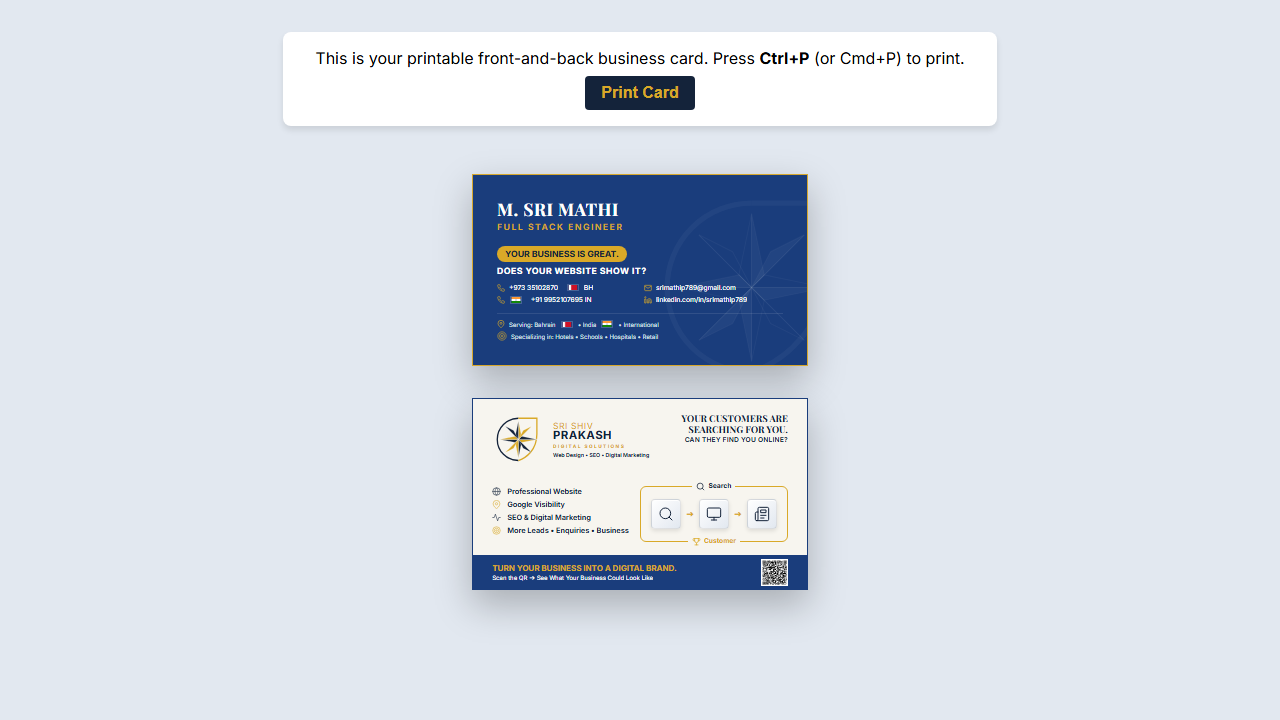
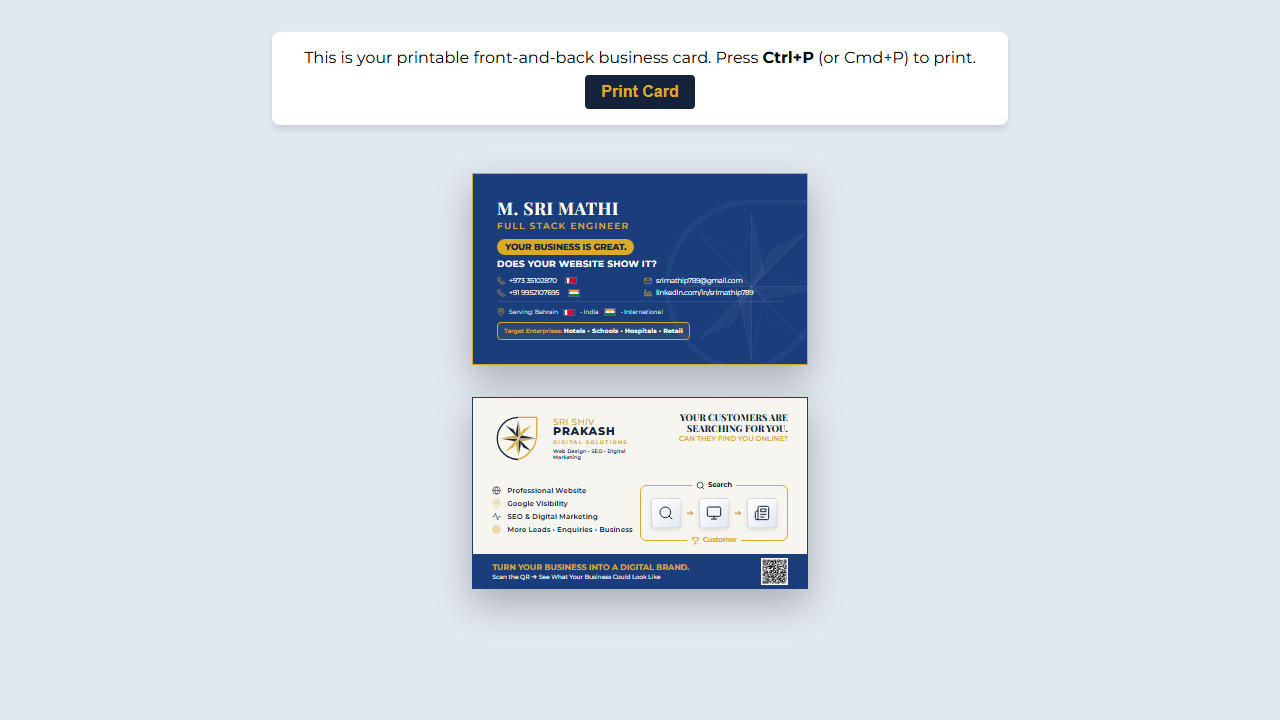
Final polish: Fonts, target clients box, and flag order

diff --git a/index.html b/index.html
@@ -3,8 +3,10 @@
 <head>
     <meta charset="UTF-8">
     <meta name="viewport" content="width=device-width, initial-scale=1.0">
-    <title>M. Sri Mathi - Visiting Card</title>
-    <link href="https://fonts.googleapis.com/css2?family=Inter:wght@300;400;600;700&family=Playfair+Display:wght@600;700&display=swap" rel="stylesheet">
+    <title>Sri Mathi - Modern Visiting Card</title>
+    <link rel="preconnect" href="https://fonts.googleapis.com">
+    <link rel="preconnect" href="https://fonts.gstatic.com" crossorigin>
+    <link href="https://fonts.googleapis.com/css2?family=Montserrat:wght@400;500;600;700;800&family=Playfair+Display:wght@700;800&display=swap" rel="stylesheet">
     <link rel="stylesheet" href="styles.css">
 </head>
 <body>
@@ -49,16 +51,18 @@
                 <p class="slogan">DOES YOUR WEBSITE SHOW IT?</p>
                 
                 <div class="contact-grid">
-                    <div class="contact-item"><svg class="c-icon" viewBox="0 0 24 24" width="8" height="8" stroke="var(--gold)" stroke-width="2" stroke-linecap="round" stroke-linejoin="round" fill="none"><path d="M22 16.92v3a2 2 0 0 1-2.18 2 19.79 19.79 0 0 1-8.63-3.07 19.5 19.5 0 0 1-6-6 19.79 19.79 0 0 1-3.07-8.67A2 2 0 0 1 4.11 2h3a2 2 0 0 1 2 1.72 12.84 12.84 0 0 0 .7 2.81 2 2 0 0 1-.45 2.11L8.09 9.91a16 16 0 0 0 6 6l1.27-1.27a2 2 0 0 1 2.11-.45 12.84 12.84 0 0 0 2.81.7A2 2 0 0 1 22 16.92z"></path></svg> +973 35102870 &nbsp;<svg class="flag-icon" viewBox="0 0 5 3" width="12" height="7"><rect width="5" height="3" fill="#CE1126"/><polygon points="0,0 1.25,0 1.25,3 0,3" fill="#FFFFFF"/><polygon points="1.25,0 1.6,0.3 1.25,0.6 1.6,0.9 1.25,1.2 1.6,1.5 1.25,1.8 1.6,2.1 1.25,2.4 1.6,2.7 1.25,3 1.25,0" fill="#FFFFFF"/></svg> BH</div>
+                    <div class="contact-item"><svg class="c-icon" viewBox="0 0 24 24" width="8" height="8" stroke="var(--gold)" stroke-width="2" stroke-linecap="round" stroke-linejoin="round" fill="none"><path d="M22 16.92v3a2 2 0 0 1-2.18 2 19.79 19.79 0 0 1-8.63-3.07 19.5 19.5 0 0 1-6-6 19.79 19.79 0 0 1-3.07-8.67A2 2 0 0 1 4.11 2h3a2 2 0 0 1 2 1.72 12.84 12.84 0 0 0 .7 2.81 2 2 0 0 1-.45 2.11L8.09 9.91a16 16 0 0 0 6 6l1.27-1.27a2 2 0 0 1 2.11-.45 12.84 12.84 0 0 0 2.81.7A2 2 0 0 1 22 16.92z"></path></svg> +973 35102870 &nbsp;<svg class="flag-icon" viewBox="0 0 5 3" width="12" height="7"><rect width="5" height="3" fill="#CE1126"/><polygon points="0,0 1.25,0 1.25,3 0,3" fill="#FFFFFF"/><polygon points="1.25,0 1.6,0.3 1.25,0.6 1.6,0.9 1.25,1.2 1.6,1.5 1.25,1.8 1.6,2.1 1.25,2.4 1.6,2.7 1.25,3 1.25,0" fill="#FFFFFF"/></svg></div>
                     <div class="contact-item"><svg class="c-icon" viewBox="0 0 24 24" width="8" height="8" stroke="var(--gold)" stroke-width="2" stroke-linecap="round" stroke-linejoin="round" fill="none"><path d="M4 4h16c1.1 0 2 .9 2 2v12c0 1.1-.9 2-2 2H4c-1.1 0-2-.9-2-2V6c0-1.1.9-2 2-2z"></path><polyline points="22,6 12,13 2,6"></polyline></svg> srimathip789@gmail.com</div>
-                    <div class="contact-item"><svg class="c-icon" viewBox="0 0 24 24" width="8" height="8" stroke="var(--gold)" stroke-width="2" stroke-linecap="round" stroke-linejoin="round" fill="none"><path d="M22 16.92v3a2 2 0 0 1-2.18 2 19.79 19.79 0 0 1-8.63-3.07 19.5 19.5 0 0 1-6-6 19.79 19.79 0 0 1-3.07-8.67A2 2 0 0 1 4.11 2h3a2 2 0 0 1 2 1.72 12.84 12.84 0 0 0 .7 2.81 2 2 0 0 1-.45 2.11L8.09 9.91a16 16 0 0 0 6 6l1.27-1.27a2 2 0 0 1 2.11-.45 12.84 12.84 0 0 0 2.81.7A2 2 0 0 1 22 16.92z"></path></svg> <svg class="flag-icon" viewBox="0 0 9 6" width="12" height="8"><rect width="9" height="2" fill="#FF9933"/><rect y="2" width="9" height="2" fill="#FFFFFF"/><rect y="4" width="9" height="2" fill="#138808"/><circle cx="4.5" cy="3" r="0.8" fill="none" stroke="#000080" stroke-width="0.1"/><circle cx="4.5" cy="3" r="0.3" fill="#000080"/></svg>&nbsp; +91 9952107695 IN</div>
+                    <div class="contact-item"><svg class="c-icon" viewBox="0 0 24 24" width="8" height="8" stroke="var(--gold)" stroke-width="2" stroke-linecap="round" stroke-linejoin="round" fill="none"><path d="M22 16.92v3a2 2 0 0 1-2.18 2 19.79 19.79 0 0 1-8.63-3.07 19.5 19.5 0 0 1-6-6 19.79 19.79 0 0 1-3.07-8.67A2 2 0 0 1 4.11 2h3a2 2 0 0 1 2 1.72 12.84 12.84 0 0 0 .7 2.81 2 2 0 0 1-.45 2.11L8.09 9.91a16 16 0 0 0 6 6l1.27-1.27a2 2 0 0 1 2.11-.45 12.84 12.84 0 0 0 2.81.7A2 2 0 0 1 22 16.92z"></path></svg> +91 9952107695 &nbsp;<svg class="flag-icon" viewBox="0 0 9 6" width="12" height="8"><rect width="9" height="2" fill="#FF9933"/><rect y="2" width="9" height="2" fill="#FFFFFF"/><rect y="4" width="9" height="2" fill="#138808"/><circle cx="4.5" cy="3" r="0.8" fill="none" stroke="#000080" stroke-width="0.1"/><circle cx="4.5" cy="3" r="0.3" fill="#000080"/></svg></div>
                     <div class="contact-item"><svg class="c-icon" viewBox="0 0 24 24" width="8" height="8" stroke="var(--gold)" stroke-width="2" stroke-linecap="round" stroke-linejoin="round" fill="none"><path d="M16 8a6 6 0 0 1 6 6v7h-4v-7a2 2 0 0 0-2-2 2 2 0 0 0-2 2v7h-4v-7a6 6 0 0 1 6-6z"></path><rect x="2" y="9" width="4" height="12"></rect><circle cx="4" cy="4" r="2"></circle></svg> linkedin.com/in/srimathip789</div>
                 </div>
             </div>
 
             <div class="front-bottom">
                 <div class="info-item"><svg class="c-icon" viewBox="0 0 24 24" width="8" height="8" stroke="var(--gold)" stroke-width="2" stroke-linecap="round" stroke-linejoin="round" fill="none"><path d="M21 10c0 7-9 13-9 13s-9-6-9-13a9 9 0 0 1 18 0z"></path><circle cx="12" cy="10" r="3"></circle></svg> Serving: Bahrain <svg class="flag-icon" viewBox="0 0 5 3" width="12" height="7"><rect width="5" height="3" fill="#CE1126"/><polygon points="0,0 1.25,0 1.25,3 0,3" fill="#FFFFFF"/><polygon points="1.25,0 1.6,0.3 1.25,0.6 1.6,0.9 1.25,1.2 1.6,1.5 1.25,1.8 1.6,2.1 1.25,2.4 1.6,2.7 1.25,3 1.25,0" fill="#FFFFFF"/></svg> • India <svg class="flag-icon" viewBox="0 0 9 6" width="12" height="8"><rect width="9" height="2" fill="#FF9933"/><rect y="2" width="9" height="2" fill="#FFFFFF"/><rect y="4" width="9" height="2" fill="#138808"/><circle cx="4.5" cy="3" r="0.8" fill="none" stroke="#000080" stroke-width="0.1"/><circle cx="4.5" cy="3" r="0.3" fill="#000080"/></svg> • International</div>
-                <div class="info-item"><svg class="c-icon" viewBox="0 0 24 24" width="10" height="10" stroke="var(--gold)" stroke-width="1.5" stroke-linecap="round" stroke-linejoin="round" fill="none"><circle cx="12" cy="12" r="10"></circle><circle cx="12" cy="12" r="6"></circle><circle cx="12" cy="12" r="2"></circle></svg> Specializing in: Hotels • Schools • Hospitals • Retail</div>
+                <div class="target-clients">
+                    <span class="tc-label">Target Enterprises:</span> <strong>Hotels • Schools • Hospitals • Retail</strong>
+                </div>
             </div>
         </div>
     </div>

diff --git a/styles.css b/styles.css
@@ -15,7 +15,7 @@
 }
 
 body {
-    font-family: 'Inter', sans-serif;
+    font-family: 'Montserrat', sans-serif;
     background-color: #e2e8f0;
     display: flex;
     flex-direction: column;
@@ -164,6 +164,25 @@ body {
     align-items: center;
     gap: 4px;
 }
+.target-clients {
+    margin-top: 3px;
+    background: rgba(217, 169, 40, 0.1);
+    border: 0.5px solid var(--gold);
+    border-radius: 4px;
+    padding: 4px 6px;
+    font-size: 4.5pt;
+    color: var(--white);
+    display: inline-block;
+    width: fit-content;
+}
+.tc-label {
+    color: var(--gold);
+    font-weight: 600;
+}
+.target-clients strong {
+    font-weight: 700;
+    letter-spacing: 0.3px;
+}
 .flag-icon {
     border: 0.25px solid rgba(255, 255, 255, 0.2);
     border-radius: 0.5px;
@@ -255,10 +274,10 @@ body {
     margin-bottom: 2px;
 }
 .pitch-sans {
-    font-family: 'Inter', sans-serif;
+    font-family: 'Montserrat', sans-serif;
     font-size: 5pt;
     font-weight: 600;
-    color: var(--navy);
+    color: var(--gold);
     letter-spacing: 0.2px;
 }
 
